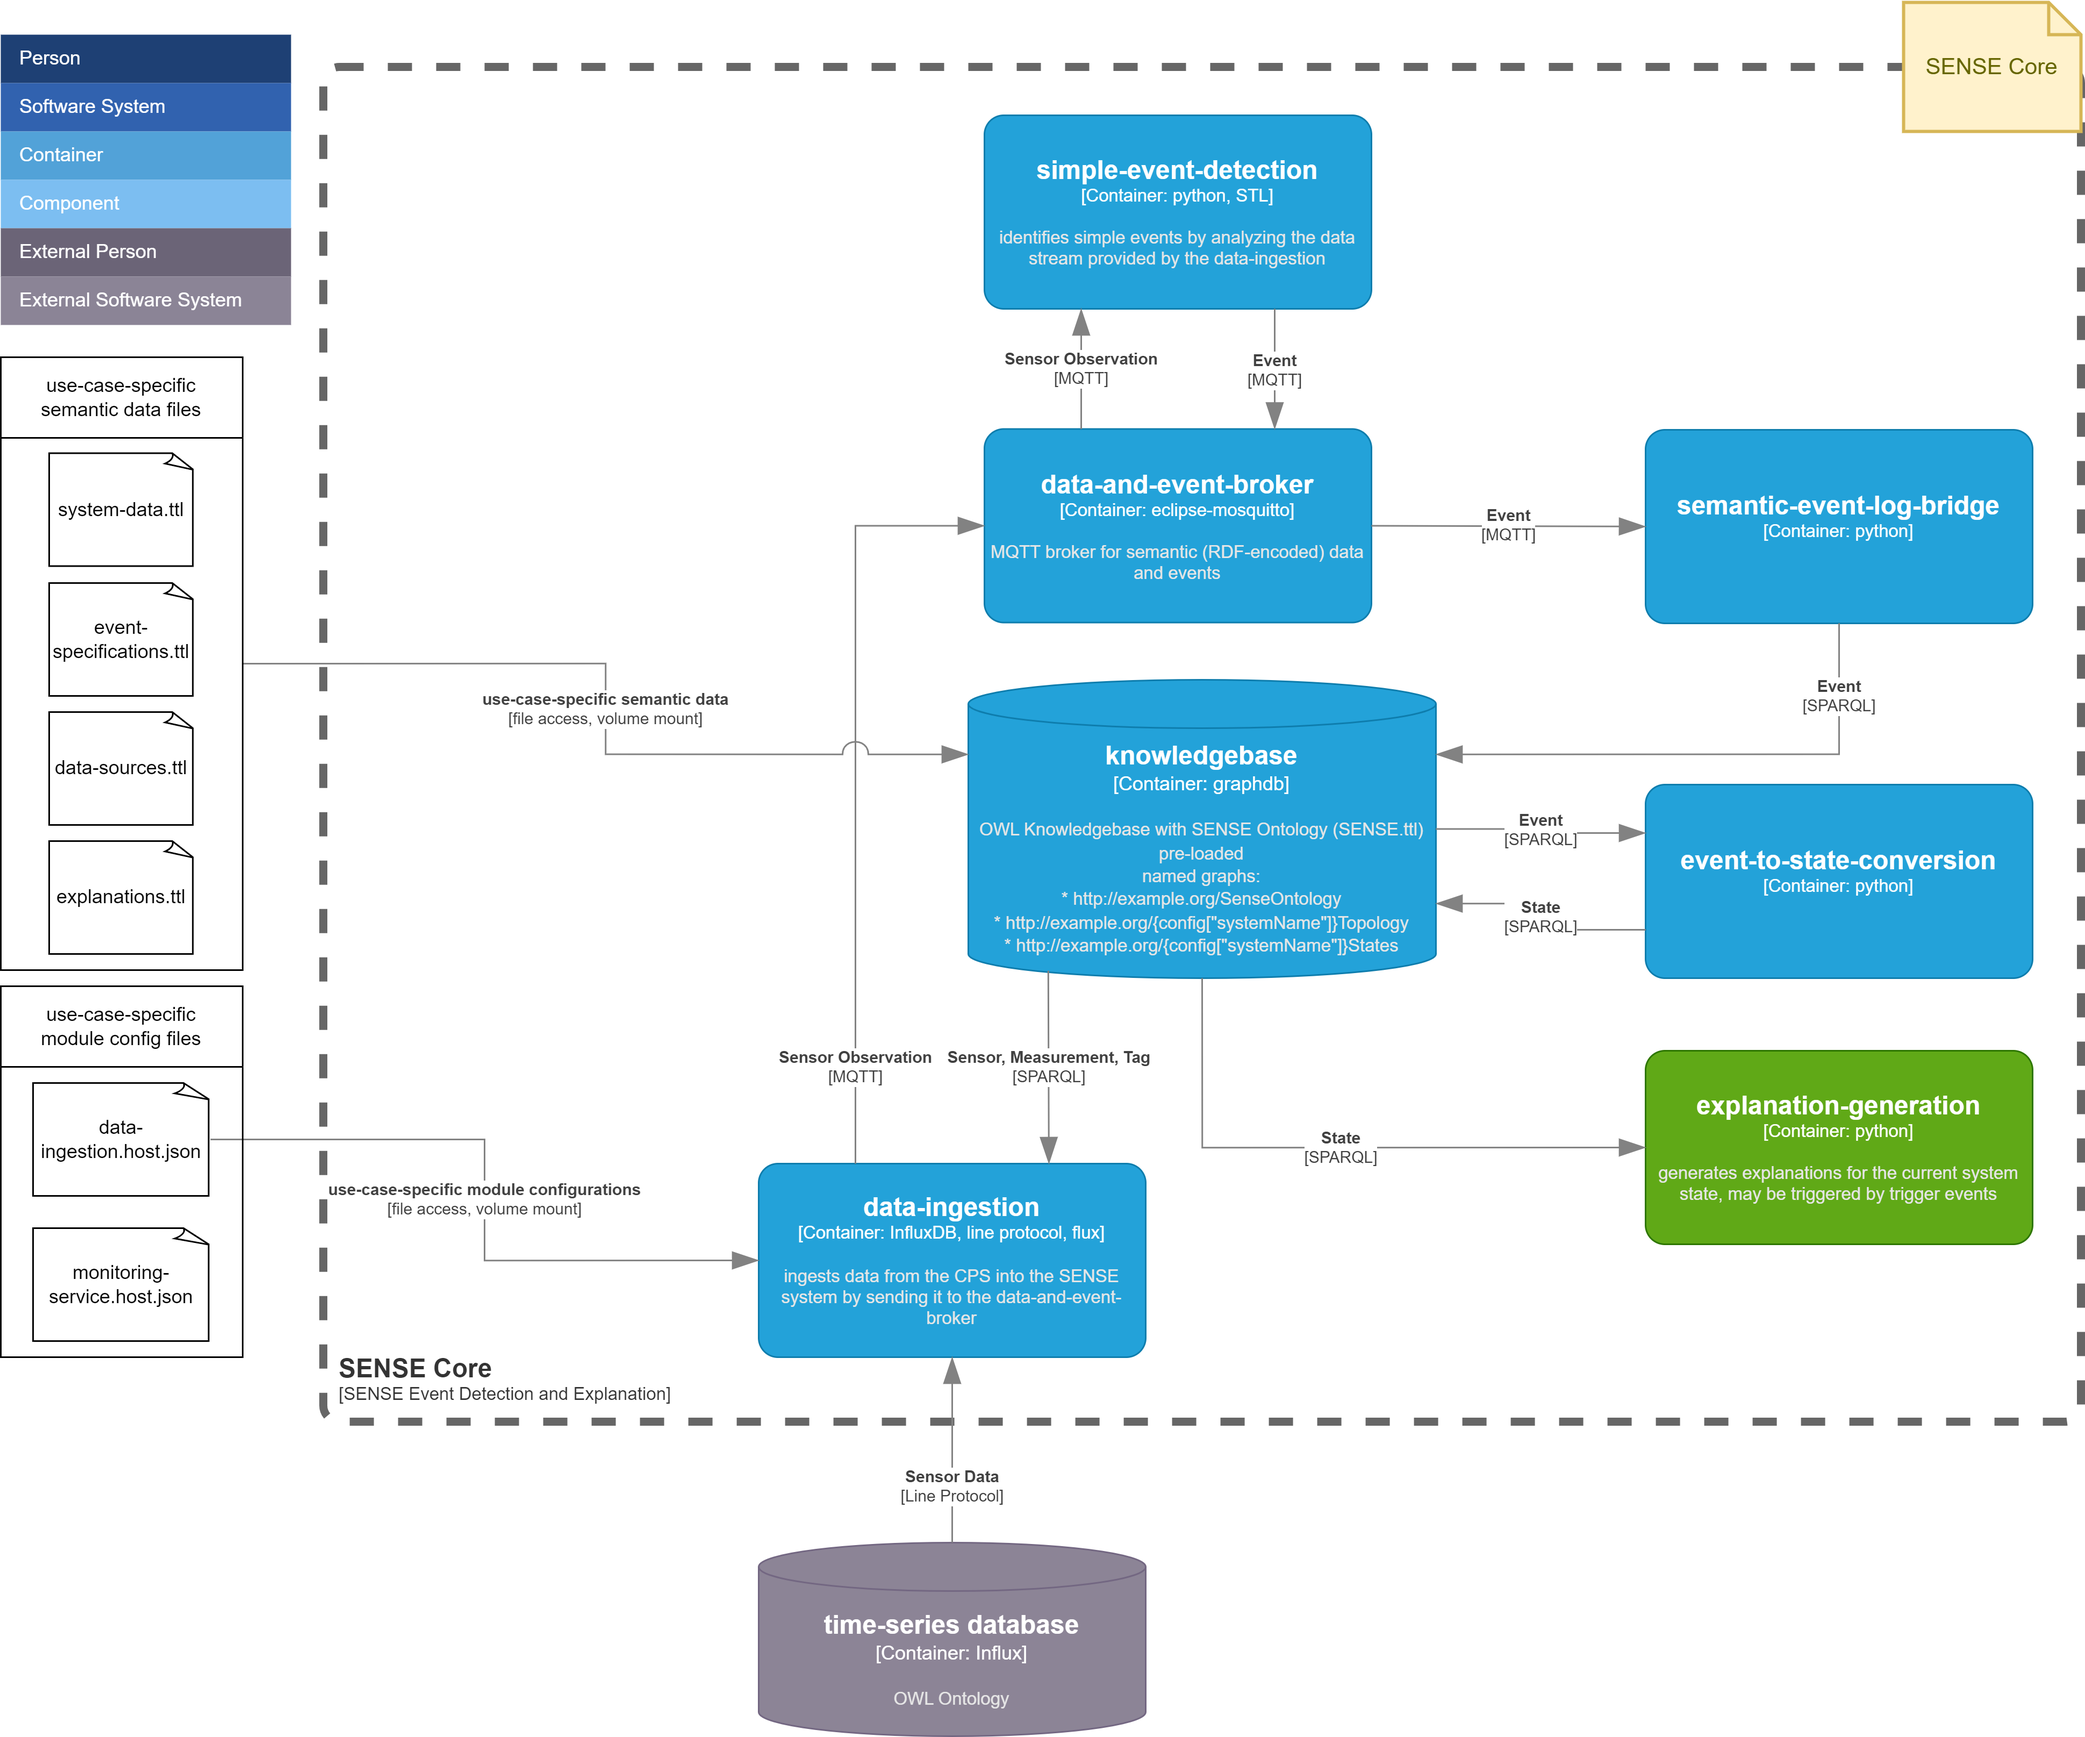
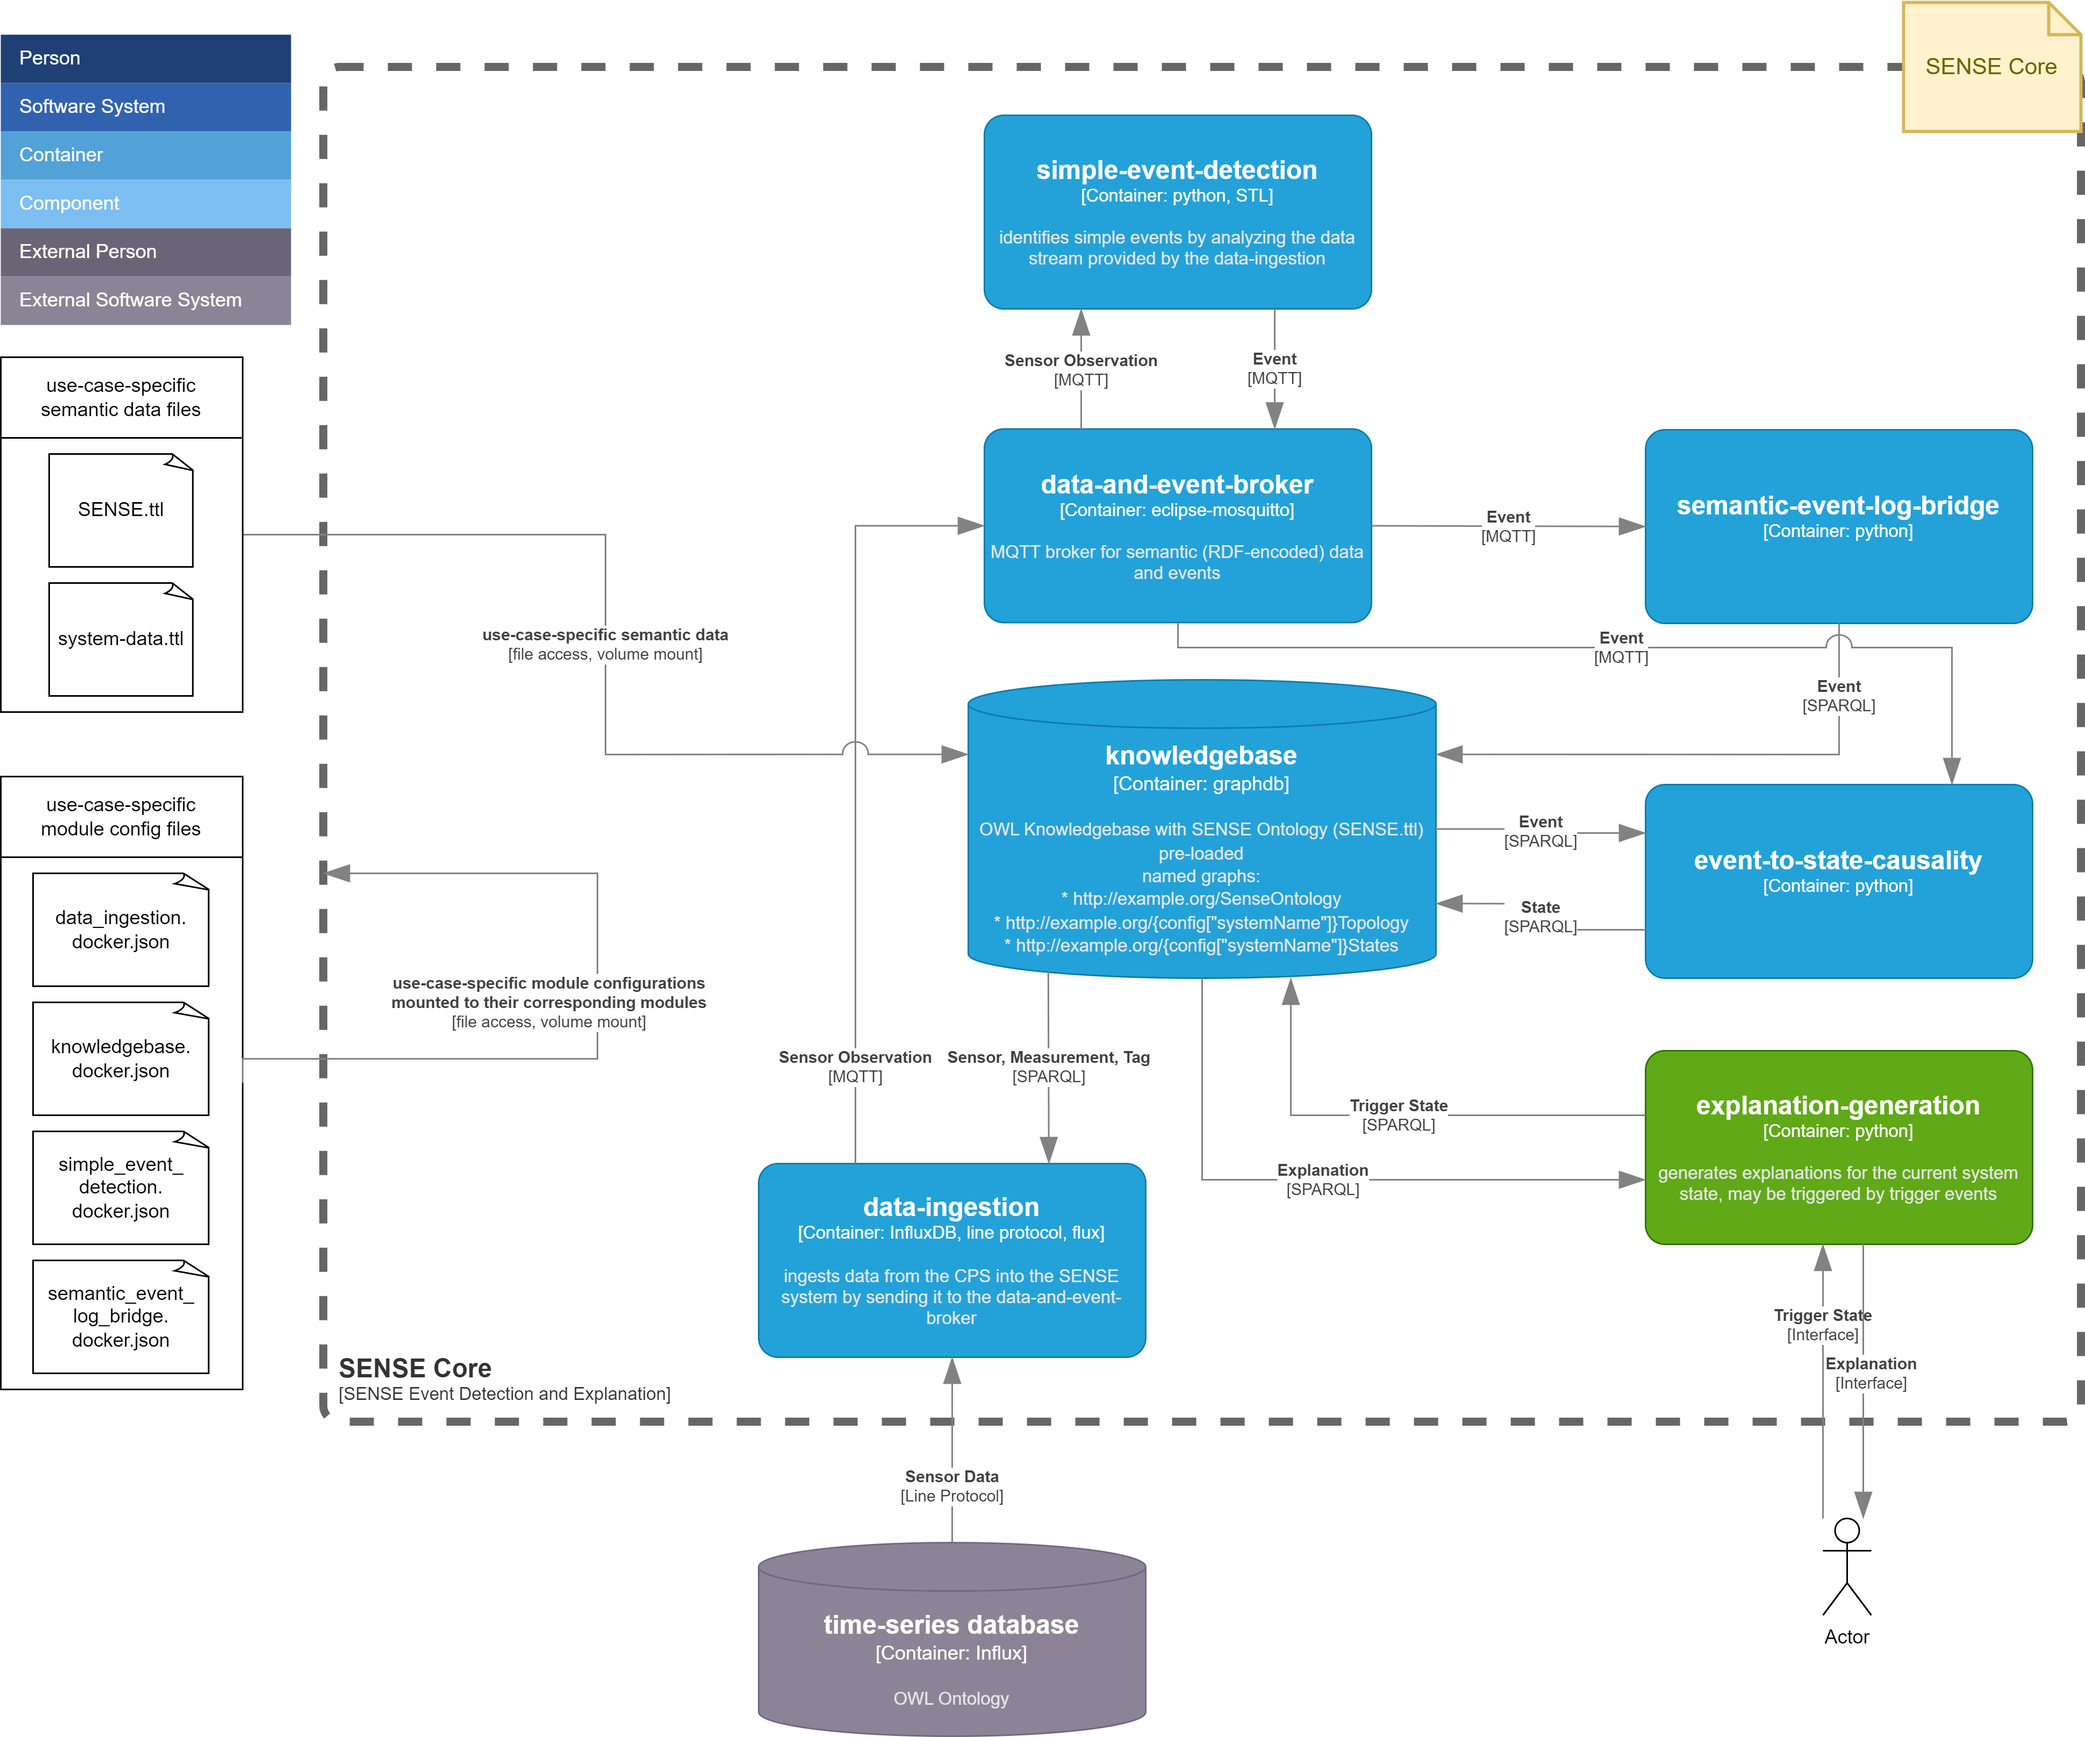
add repo structure, config, cicd, namespaces sections

diff --git a/README.md b/README.md
@@ -8,6 +8,10 @@ The SENSE Core is a result of the Semantics-based Explanation of Cyber-physical 
 - [TODOs](#todos)
 - [SENSE Core Structure](#sense-core-structure)
 - [Instantiation and Execution](#instantiation-and-execution)
+- [Structure of the Repository](#structure-of-the-repository)
+- [Named Graphs and Namespaces](#named-graphs-and-namespaces)
+- [Configuration Files](#configuration-files)
+- [GitLAB CI/CD](#gitlab-cicd)
 - [License](#license)
 - [References](#references)
 - [Contributing](#contributing)
@@ -24,9 +28,9 @@ The SENSE Core is a result of the Semantics-based Explanation of Cyber-physical 
 
 ## SENSE Core Structure
 
-This repository provides the necessary containers making up the SENSE Core. Note that the SENSE Core itself is not an executable application as it lacks use-case specific system data. For a demo instantiation of the SENSE Core, please refer to  [Demo Instantiation](#) (TODO: Insert Link to BIFROST Demo instantiation).
+This repository provides the necessary containers making up the SENSE Core. Note that the SENSE Core itself is not an executable application as it lacks use-case specific system data. For a demo instantiation of the SENSE Core, please refer to  [Demo Instantiation](https://git.ai.wu.ac.at/sense/seehub) (TODO: Replace this link, which directs to our internal seehub demo use case, to the public BIFROST Demo instantiation).
 
-![SENSE Core Container Structure](./doc/SENSE-Core-C4-Model-Level2-ContainerDiagramV2.png)
+![SENSE Core Container Structure](./doc/SENSE-Core-C4-Model-Level2-ContainerDiagram.png)
 
 The structure and interdependencies of the SENSE Core components are as follows:
 
@@ -35,7 +39,7 @@ The structure and interdependencies of the SENSE Core components are as follows:
 - **Component 3**: Description of component 3.
 
 ## Instantiation and Execution
-As mentioned, the SENSE Core is not an executable application by itself but needs to be configured according to the specific use case. This process is referred to as "instantiation". You can also use our demo instantiation of the SENSE Core to quickly start with a running demo application.
+As mentioned, the SENSE Core is not an executable application by itself but needs to be configured according to the specific use case. This process is referred to as "instantiation". You can also use our [Demo Instantiation](https://git.ai.wu.ac.at/sense/seehub) (TODO: Replace this link, which directs to our internal seehub demo use case, to the public BIFROST Demo instantiation) of the SENSE Core to quickly start with a running demo application.
 
 
 1. **Prepare the Configuration**
@@ -46,6 +50,51 @@ As mentioned, the SENSE Core is not an executable application by itself but need
 
 3. **Run the Application**
    - Steps to start the application and verify it is running correctly.
+
+## Structure of the Repository
+```
+├── README.md
+├── doc # figures etc. for the README
+│   ├── ...
+└── sense_core # implementations for the SENSE Core modules
+    ├── config # configuration files intended for development (cf. [Configuration Files](#configuration-files))
+    │   ├── data_ingestion.host.json
+    │   ├── ...
+    ├── data_ingestion # implementation of the data_ingestion module
+    │   ├── ...
+    ├── data_ingestion.Containerfile # Containerfile to build the data_ingestion module image
+    ├── data_ingestion.py # entrypoint for the data_ingestion container
+    ├── knowledgebase
+    │   ├── data
+    │   │   └── SENSE.ttl
+    │   ├── ...
+    ├── knowledgebase.Containerfile
+    ├── knowledgebase.sh
+    ├── semantic_event_log_bridge.Containerfile
+    ├── shared # python code used by multiple modules
+    │   ├── ...
+    ├── simple_event_detection
+    │   ├── ...
+    ├── simple_event_detection.Containerfile
+    └── simple_event_detection.py
+└── .gitlab-ci.yml # gitlab CI/CD config (cf. [GitLAB CI/CD](#gitlab-cicd))
+```
+
+## Named Graphs and Namespaces
+Data within the knowledgebase is organized in different named graphs according to  [SENSE Named Graph List.xlsx](https://wu.sharepoint.com/:x:/r/sites/PR-FFGSENSE/Freigegebene%20Dokumente/General/1_WorkPackages/WP4_Semantics-basedEventExplainability/4.1%20SENSE%20Semantic%20Model/SENSE%20Named%20Graph%20List.xlsx?d=w136542f1c78046dfa38a3af2cea52535&csf=1&web=1&e=01o5Rt)
+
+
+## Configuration Files
+Currently, we use configuration files that are specific to each module, e.g., there is a configuration file for the knowledgebase, another one for data_ingestion, etc. Eventually, we plan to merge these configuration files into one file, eliminating redundant entries/definitions.
+
+### Configuration Files for Development
+Configuration files with the file ending `host.json` are intended to be used for development only. As an example, if you want to work on the data_ingestion module, you can start all other modules within their corresponding containers and execute the data_ingestion script with its corresponding data_ingestion.host.json on your host machine.
+
+### Configuration Files for Operation
+Configuration files with the file ending `docker.json` are intended to be used when running the module in its corresponding container. They are supplied to the containers via volume mounts. As the SENSE Core is not intended to be executed, configuration files with the file ending `docker.json` should only be located in the corresponding instantiations. Eventually, we might provide templates or example `docker.json` configuration files also with the SENSE Core repository.
+
+## GitLAB CI/CD
+CI/CD build instructions for each image are defined in .gitlab-ci.yml.
 
 ## License
 
